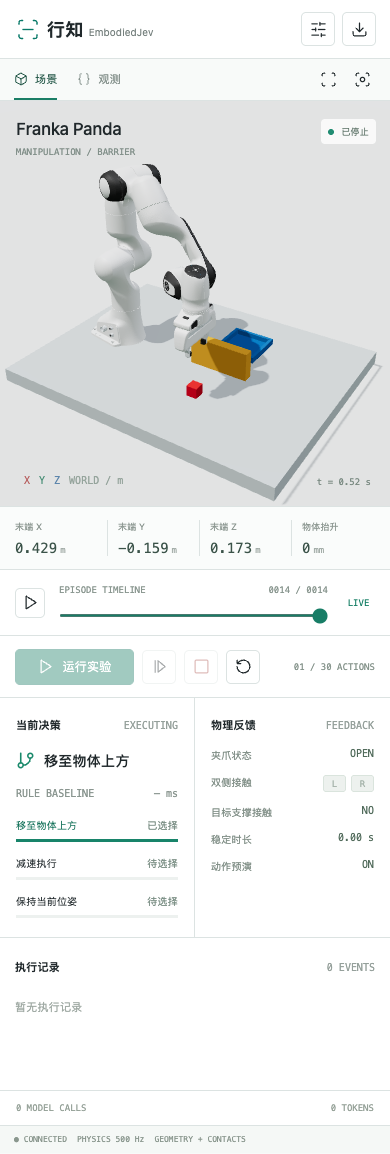
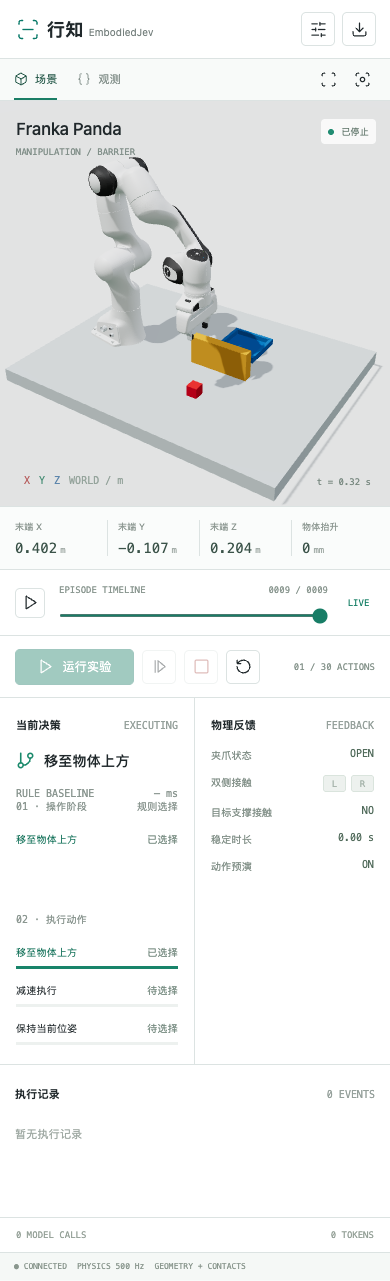
Show intent and motion decisions separately with reference provenance

diff --git a/frontend/main.js b/frontend/main.js
@@ -107,7 +107,7 @@ $("#app").innerHTML = `
   <div class="controls"><button class="primary" id="run">${icon("play")}<span id="run-label">运行实验</span></button><button class="icon-button" id="step" title="单步执行" aria-label="单步执行">${icon("step-forward")}</button><button class="icon-button stop" id="stop" title="停止实验" aria-label="停止实验">${icon("square")}</button><button class="icon-button" id="reset" title="重置实验" aria-label="重置实验">${icon("rotate-ccw")}</button><span class="run-budget" id="run-budget">00 / 30 ACTIONS</span></div>
  </main>
  <aside class="inspector">
-  <section class="inspector-section"><div class="section-topline"><h2>当前决策</h2><span class="eyebrow" id="stage">READY</span></div><div class="decision-title">${icon("git-branch")}<span id="decision-title">等待开始</span></div><div class="decision-meta"><span id="decision-provider">RULE BASELINE</span><span id="latency">— ms</span></div><div class="probabilities" id="probabilities"><div class="empty">尚无候选动作</div></div></section>
+  <section class="inspector-section"><div class="section-topline"><h2>当前决策</h2><span class="eyebrow" id="stage">READY</span></div><div class="decision-title">${icon("git-branch")}<span id="decision-title">等待开始</span></div><div class="decision-meta"><span id="decision-provider">RULE BASELINE</span><span id="latency">— ms</span></div><div id="intent-panel" hidden><div class="decision-meta"><span>01 · 操作阶段</span><span id="intent-latency"></span></div><div class="probabilities" id="intent-probabilities"></div><div class="decision-meta"><span>02 · 执行动作</span></div></div><div class="probabilities" id="probabilities"><div class="empty">尚无候选动作</div></div></section>
   <section class="inspector-section"><div class="section-topline"><h2>物理反馈</h2><span class="eyebrow">FEEDBACK</span></div><div class="sensors"><span class="name">夹爪状态</span><span class="sensor-value" id="gripper">OPEN</span><span class="name">双侧接触</span><div class="contacts"><span class="contact" id="contact-l">L</span><span class="contact" id="contact-r">R</span></div><span class="name">目标支撑接触</span><span class="sensor-value" id="support">NO</span><span class="name">稳定时长</span><span class="sensor-value" id="stable">0.00 s</span><span class="name">动作预演</span><span class="sensor-value" id="preview-state">ON</span></div></section>
   <div class="event-heading"><div class="section-topline"><h2>执行记录</h2><span class="eyebrow" id="event-count">0 EVENTS</span></div></div><ol class="events" id="events"><li class="empty">暂无执行记录</li></ol><div class="inspector-footer"><span id="model-calls">0 MODEL CALLS</span><span id="tokens">0 TOKENS</span></div>
  </aside></div><footer class="bottom-bar"><div class="bottom-left"><span id="connection">CONNECTING</span><span>PHYSICS 500 Hz</span><span>GEOMETRY + CONTACTS</span></div><span class="bottom-right" id="episode-id">EPISODE / —</span></footer>
@@ -469,9 +469,31 @@ function renderState(s) {
       String(s.frame_count).padStart(4, "0");
   }
   $("#replay-play").disabled = s.frame_count < 2 || s.status === "running";
-  const signature = JSON.stringify([s.candidates, s.last_decision]);
+  const signature = JSON.stringify([
+    s.candidates,
+    s.last_decision,
+    s.last_intent,
+  ]);
   if (signature !== candidateSignature) {
     candidateSignature = signature;
+    const intent = s.last_intent;
+    $("#intent-panel").hidden = !intent;
+    $("#intent-latency").textContent = intent?.model_call
+      ? intent.latency_ms.toFixed(0) + " ms"
+      : intent?.reason === "only_eligible_action"
+        ? "单一可行阶段 · 无模型调用"
+        : "规则选择";
+    $("#intent-probabilities").innerHTML = intent
+      ? (Object.entries(intent.probabilities || {}).length
+          ? Object.entries(intent.probabilities)
+          : [[intent.choice, null]]
+        )
+          .map(
+            ([choice, probability]) =>
+              `<div class="prob-row ${choice === intent.choice ? "selected" : ""}"><div class="prob-top"><span>${escape(phaseNames[choice] || choice)}</span><span>${probability === null ? "已选择" : (probability * 100).toFixed(1) + "%"}</span></div>${probability === null ? "" : `<div class="bar"><div class="bar-fill" style="width:${probability * 100}%"></div></div>`}</div>`,
+          )
+          .join("")
+      : "";
     const p = s.last_decision?.probabilities || {};
     $("#probabilities").innerHTML = s.candidates.length
       ? s.candidates

diff --git a/src/embodied_jev/runtime.py b/src/embodied_jev/runtime.py
@@ -31,6 +31,7 @@ class Session:
         self.last_frame = self.world.frame()
         self.current_candidates = []
         self.last_decision = None
+        self.last_intent = None
         self.message = None
         self.single_step = False
         self.started = None
@@ -99,6 +100,7 @@ class Session:
                     phases = eligible_phases(self.world)
                     self.stage = "deciding"
                     self.last_decision = None
+                    self.last_intent = None
                     self.current_candidates = []
                 intent = self.policy.choose(observation,
                     "Choose the next manipulation phase using measured contacts and object geometry. "
@@ -106,6 +108,8 @@ class Session:
                     {p: PHASES[p] for p in phases}, baseline_phase(self.world), self.history)
                 if not self._wait():
                     return
+                with self.lock:
+                    self.last_intent = intent
                 if intent["selected_probability"] is not None and intent["selected_probability"] < self.threshold:
                     self._uncertain(intent)
                     continue
@@ -204,7 +208,8 @@ class Session:
                     "cycles": self.cycles, "max_cycles": self.max_cycles, "provider": self.policy.provider,
                     "preview": self.preview, "threshold": self.threshold, "message": self.message,
                     "frame": self.last_frame, "history": list(self.history), "candidates": self.current_candidates,
-                    "last_decision": self.last_decision, "frame_count": len(self.frames),
+                    "last_decision": self.last_decision, "last_intent": self.last_intent,
+                    "frame_count": len(self.frames),
                     "model_calls": self.policy.calls, "input_tokens": self.policy.tokens,
                     "model_runtime": minicpm_status() if self.policy.provider == "minicpm" else None,
                     "wall_seconds": round((self.finished or time.perf_counter()) - self.started, 2) if self.started else 0}
@@ -232,6 +237,7 @@ class Session:
                     "model_calls": self.policy.calls, "input_tokens": self.policy.tokens,
                     "model_runtime": minicpm_status() if self.policy.provider == "minicpm" else None,
                     "model_latency_ms": list(self.policy.latencies), "last_decision": self.last_decision,
+                    "last_intent": self.last_intent,
                     "wall_seconds": self.snapshot()["wall_seconds"], "message": self.message,
                     "observation_source": "privileged simulator geometry and contacts"}
 

diff --git a/docs/VALIDATION.md b/docs/VALIDATION.md
@@ -18,7 +18,9 @@ The baseline makes zero model calls and emits no model probabilities. TypeSafe a
 
 The short phase menus, fixed orientation, supplied destination and prewritten motion primitives simplify planning significantly. Passing this baseline does not demonstrate general robot intelligence or sim-to-real transfer. Probability gating has not been calibrated on manipulation episodes. Disabling previews disables candidate rollout checks but keeps workspace checks and the live contact stop.
 
-Additional local verification: 28 Python tests passed, including connection-key redaction, no network call on saving credentials, mocked chat requests, and sparse vocabulary projection against full logits on a tiny randomly initialized Llama. This checks the calculation, not MiniCPM model quality. The pinned real MiniCPM5-2B tokenizer passed complete-prefix checks for empty history, nested empty lists and numeric object coordinates: A/B/C mapped to token IDs 54/55/56 in all three cases. Reproduce with `python scripts/check_minicpm_tokenizer.py` after installing `.[minicpm]`; tokenizer files require a small download, weights are not loaded.
+Additional local verification: 30 Python tests passed, including connection-key redaction, no network call on saving credentials, mocked chat requests, headless uncertainty/timeout handling, and sparse vocabulary projection against full logits on a tiny randomly initialized Llama. This checks the calculation, not MiniCPM model quality. The pinned real MiniCPM5-2B tokenizer passed complete-prefix checks for empty history, nested empty lists and numeric object coordinates: A/B/C mapped to token IDs 54/55/56 in all three cases. Reproduce with `python scripts/check_minicpm_tokenizer.py` after installing `.[minicpm]`; tokenizer files require a small download, weights are not loaded.
+
+The initial GitHub browser run timed out while checking camera pixel changes. After switching the workbench to render on scene, camera and pose changes, reducing the shadow-map size and allowing 15 seconds for visual assertions, [CI run 35488205230](https://github.com/FBddcz/embodied-jev/actions/runs/35488205230) passed. The pixel-change assertions remain enabled. This establishes the passing result, not a proven single root cause for the earlier failure.
 
 ## Replay
 

diff --git a/docs/REFERENCES.md b/docs/REFERENCES.md
@@ -18,6 +18,12 @@ SemIf includes MiniCPM5-2B in its public model support/evaluations. It is theref
 
 The TypeSafe adapter follows the [official HTTP schema](https://docs.typesafe.ai/api). A selected-option probability and the API's `confidence` are different quantities; both are retained separately when returned, and only selected probability gates this prototype.
 
+## User-supplied MuJoCo demonstration
+
+[Dmytro Hrybov's September 18, 2026 post](https://x.com/dimentary/status/2101018760371171420) describes splitting each update into intent selection and motor selection after a single-stage approach struggled. His [follow-up](https://x.com/dimentary/status/2101018934095003720) says the first call selects grasp/carry/release intent, the second chooses XYZ movement and finger commands, and the bars display Jev's output probabilities. Observations are simplified geometry and contacts supplied as text, not images. The accessible post does not itself link a source repository; no claim is made that another listed repository is this exact demo.
+
+EmbodiedJev follows the same two-stage idea and displays phase and action probabilities separately. Its execution layer selects bounded, prewritten motion candidates rather than independent XYZ channels. Singleton menus skip inference and are marked as such. Local MiniCPM probabilities come from candidate-token logits; they are not TypeSafe Jev measurements or calibrated physical success probabilities.
+
 ## Jev and GPT-6 in the Public Comparison
 
 The [reviewed controller source](https://github.com/openroboto-ai/jev-robot-control/blob/7a4ed8b72c3c17d7aa790678ed9660df67c10dd3/incremental_policy.py) uses `OPENROUTER_API_KEY` for both branches:
